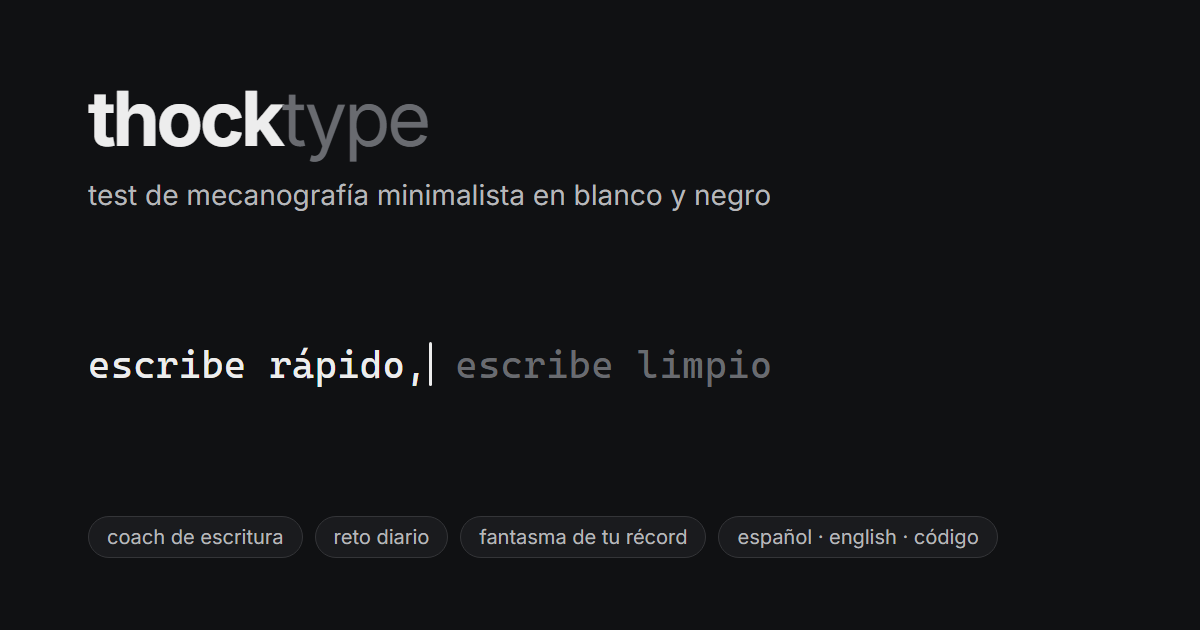
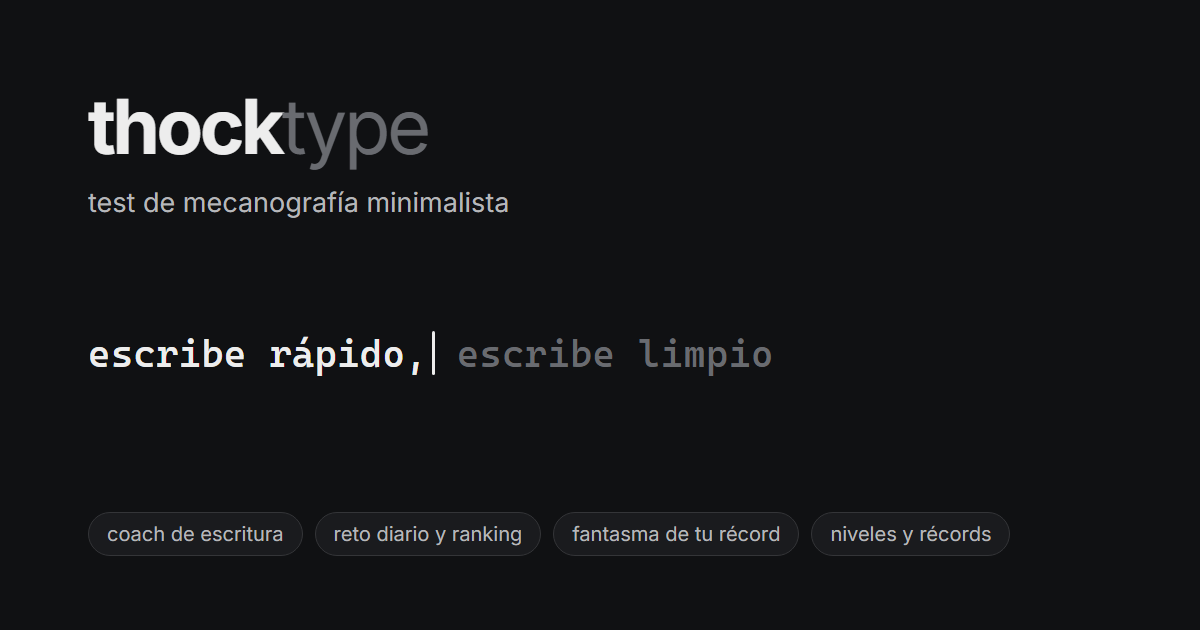
feat(compartir): vista previa del link actualizada (ranking, niveles y récords) y descripción nueva

diff --git a/index.html b/index.html
@@ -10,15 +10,15 @@
     <meta name="apple-mobile-web-app-title" content="ThockType" />
     <meta name="theme-color" content="#101113" />
     <meta name="viewport" content="width=device-width, initial-scale=1.0" />
-    <meta name="description" content="ThockType — test de mecanografía minimalista en blanco y negro" />
+    <meta name="description" content="ThockType — test de mecanografía minimalista. Escribe rápido, escribe limpio." />
     <title>ThockType</title>
     <!-- link previews (WhatsApp, Discord, X, Facebook…) -->
     <meta property="og:type" content="website" />
     <meta property="og:site_name" content="ThockType" />
     <meta property="og:title" content="ThockType — test de mecanografía" />
-    <meta property="og:description" content="Minimalista, en blanco y negro. Coach de escritura, reto diario y un fantasma que corre a tu récord." />
+    <meta property="og:description" content="Escribe rápido, escribe limpio. Coach de escritura, reto diario con ranking, niveles, récords y un fantasma que corre a tu récord." />
     <meta property="og:url" content="https://thocktype-alpha.vercel.app/" />
-    <meta property="og:image" content="https://thocktype-alpha.vercel.app/og.png" />
+    <meta property="og:image" content="https://thocktype-alpha.vercel.app/og.png?v=2" />
     <meta property="og:image:width" content="1200" />
     <meta property="og:image:height" content="630" />
     <meta property="og:locale" content="es_ES" />
